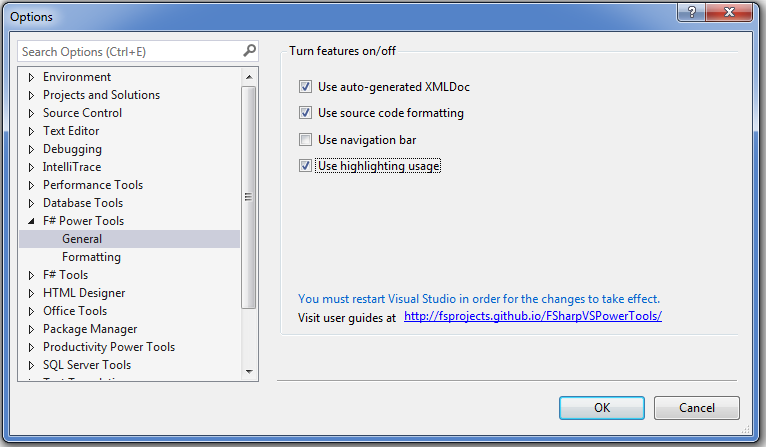
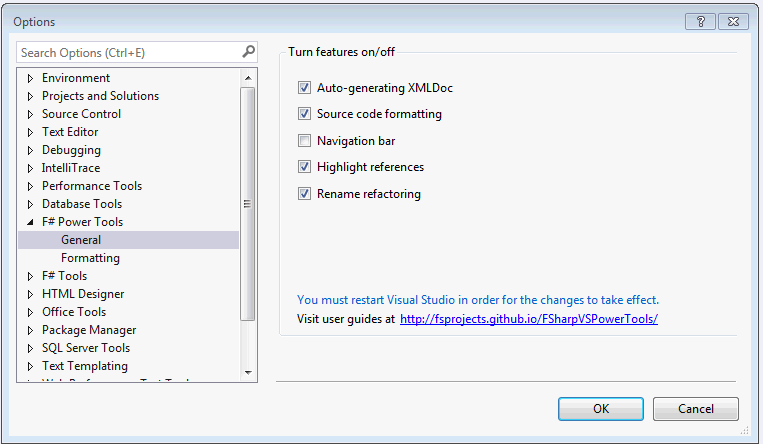
Update generated documentation for version 0.3.0

diff --git a/highlightusage.html b/highlightusage.html
@@ -5,7 +5,7 @@
     <title>highlightusage</title>
     <meta name="viewport" content="width=device-width, initial-scale=1.0">
     <meta name="description" content="F# Community Power Tools (for Visual Studio) ">
-    <meta name="author" content="Anh-Dung Phan, Don Syme">
+    <meta name="author" content="Anh-Dung Phan, Don Syme, Vasily Kirichenko">
 
     <script src="http://code.jquery.com/jquery-1.8.0.js"></script>
     <script src="http://code.jquery.com/ui/1.8.23/jquery-ui.js"></script>
@@ -32,12 +32,15 @@
       <div class="row">
         <div class="span9" id="main">
           
-<h2>Highlighting usage</h2>
+<h2>Highlight references</h2>
 
-<p>Color of the highlighting marker could be customized in  "Tools --> Options --> Environment --> Fonts and Colors --> Display items --> F# Highlight Usage".
-Here is a demo screencast.</p>
+<p>The color of the highlighted marker could be customized in  "Tools --> Options --> Environment --> Fonts and Colors --> Display items --> Highlighted References".
+Since v0.3.0 we also support operator highlighting.
+<img src="img/highlight_operators.png" alt="Highlight operators" /></p>
 
-<p><img src="img/highlight_usage.gif" alt="Highlighting usage" /></p>
+<p>Here is a demo screencast.</p>
+
+<p><img src="img/highlight_references.gif" alt="Highlight references" /></p>
 
 
         </div>
@@ -53,10 +56,11 @@ Here is a demo screencast.</p>
             <li><a href="http://github.com/fsprojects/FSharpVSPowerTools/blob/master/RELEASE_NOTES.md">Release Notes</a></li>
             
             <li class="nav-header">Supported Features</li>
-              <li><a href="./xmldoc.html">Auto-generating XMLDoc</a></li>
-            <li><a href="./codeformatting.html">Code formatting</a></li>
+            <li><a href="./xmldoc.html">Auto-generating XMLDoc</a></li>
+            <li><a href="./codeformatting.html">Source code formatting</a></li>
             <li><a href="./navbar.html">Navigation bar</a></li>
-              <li><a href="./highlightusage.html">Highlighting usage</a></li>
+            <li><a href="./highlightusage.html">Highlight references</a></li>
+            <li><a href="./rename.html">Rename refactoring</a></li>
             <!--
             <li class="nav-header">Documentation</li>
             <li><a href="./reference/index.html">API Reference</a></li>

diff --git a/index.html b/index.html
@@ -5,7 +5,7 @@
     <title>index</title>
     <meta name="viewport" content="width=device-width, initial-scale=1.0">
     <meta name="description" content="F# Community Power Tools (for Visual Studio) ">
-    <meta name="author" content="Anh-Dung Phan, Don Syme">
+    <meta name="author" content="Anh-Dung Phan, Don Syme, Vasily Kirichenko">
 
     <script src="http://code.jquery.com/jquery-1.8.0.js"></script>
     <script src="http://code.jquery.com/ui/1.8.23/jquery-ui.js"></script>
@@ -45,9 +45,10 @@ The extension is also available in the <a href="http://visualstudiogallery.msdn.
 
 <ul>
 <li><a href="xmldoc.html">Auto-generating XMLDoc</a></li>
-<li><a href="codeformatting.html">Code formatting</a></li>
+<li><a href="codeformatting.html">Source code formatting</a></li>
 <li><a href="navbar.html">Navigation bar</a></li>
-<li><a href="highlightusage.html">Highlighting usage</a></li>
+<li><a href="highlightusage.html">Highlight references</a></li>
+<li><a href="rename.html">Rename refactoring</a></li>
 </ul>
 
 <h2>Contributing and copyright</h2>
@@ -74,10 +75,11 @@ redistribution for both commercial and non-commercial purposes. For more informa
             <li><a href="http://github.com/fsprojects/FSharpVSPowerTools/blob/master/RELEASE_NOTES.md">Release Notes</a></li>
             
             <li class="nav-header">Supported Features</li>
-              <li><a href="./xmldoc.html">Auto-generating XMLDoc</a></li>
-            <li><a href="./codeformatting.html">Code formatting</a></li>
+            <li><a href="./xmldoc.html">Auto-generating XMLDoc</a></li>
+            <li><a href="./codeformatting.html">Source code formatting</a></li>
             <li><a href="./navbar.html">Navigation bar</a></li>
-              <li><a href="./highlightusage.html">Highlighting usage</a></li>
+            <li><a href="./highlightusage.html">Highlight references</a></li>
+            <li><a href="./rename.html">Rename refactoring</a></li>
             <!--
             <li class="nav-header">Documentation</li>
             <li><a href="./reference/index.html">API Reference</a></li>

diff --git a/codeformatting.html b/codeformatting.html
@@ -5,7 +5,7 @@
     <title>codeformatting</title>
     <meta name="viewport" content="width=device-width, initial-scale=1.0">
     <meta name="description" content="F# Community Power Tools (for Visual Studio) ">
-    <meta name="author" content="Anh-Dung Phan, Don Syme">
+    <meta name="author" content="Anh-Dung Phan, Don Syme, Vasily Kirichenko">
 
     <script src="http://code.jquery.com/jquery-1.8.0.js"></script>
     <script src="http://code.jquery.com/ui/1.8.23/jquery-ui.js"></script>
@@ -32,7 +32,7 @@
       <div class="row">
         <div class="span9" id="main">
           
-<h2>Code formatting</h2>
+<h2>Source code formatting</h2>
 
 <p>Two main formatting commands are available:</p>
 
@@ -110,10 +110,11 @@ could be adjusted under "Tools --> Options --> Text Editor --> F# --> Tabs" (loo
             <li><a href="http://github.com/fsprojects/FSharpVSPowerTools/blob/master/RELEASE_NOTES.md">Release Notes</a></li>
             
             <li class="nav-header">Supported Features</li>
-              <li><a href="./xmldoc.html">Auto-generating XMLDoc</a></li>
-            <li><a href="./codeformatting.html">Code formatting</a></li>
+            <li><a href="./xmldoc.html">Auto-generating XMLDoc</a></li>
+            <li><a href="./codeformatting.html">Source code formatting</a></li>
             <li><a href="./navbar.html">Navigation bar</a></li>
-              <li><a href="./highlightusage.html">Highlighting usage</a></li>
+            <li><a href="./highlightusage.html">Highlight references</a></li>
+            <li><a href="./rename.html">Rename refactoring</a></li>
             <!--
             <li class="nav-header">Documentation</li>
             <li><a href="./reference/index.html">API Reference</a></li>

diff --git a/xmldoc.html b/xmldoc.html
@@ -5,7 +5,7 @@
     <title>xmldoc</title>
     <meta name="viewport" content="width=device-width, initial-scale=1.0">
     <meta name="description" content="F# Community Power Tools (for Visual Studio) ">
-    <meta name="author" content="Anh-Dung Phan, Don Syme">
+    <meta name="author" content="Anh-Dung Phan, Don Syme, Vasily Kirichenko">
 
     <script src="http://code.jquery.com/jquery-1.8.0.js"></script>
     <script src="http://code.jquery.com/ui/1.8.23/jquery-ui.js"></script>
@@ -86,10 +86,11 @@ and you get a blank XMLDoc template (if there wasn't already a non-empty XMLDoc 
             <li><a href="http://github.com/fsprojects/FSharpVSPowerTools/blob/master/RELEASE_NOTES.md">Release Notes</a></li>
             
             <li class="nav-header">Supported Features</li>
-              <li><a href="./xmldoc.html">Auto-generating XMLDoc</a></li>
-            <li><a href="./codeformatting.html">Code formatting</a></li>
+            <li><a href="./xmldoc.html">Auto-generating XMLDoc</a></li>
+            <li><a href="./codeformatting.html">Source code formatting</a></li>
             <li><a href="./navbar.html">Navigation bar</a></li>
-              <li><a href="./highlightusage.html">Highlighting usage</a></li>
+            <li><a href="./highlightusage.html">Highlight references</a></li>
+            <li><a href="./rename.html">Rename refactoring</a></li>
             <!--
             <li class="nav-header">Documentation</li>
             <li><a href="./reference/index.html">API Reference</a></li>

diff --git a/rename.html b/rename.html
@@ -2,7 +2,7 @@
 <html lang="en">
   <head>
     <meta charset="utf-8">
-    <title>navbar</title>
+    <title>rename</title>
     <meta name="viewport" content="width=device-width, initial-scale=1.0">
     <meta name="description" content="F# Community Power Tools (for Visual Studio) ">
     <meta name="author" content="Anh-Dung Phan, Don Syme, Vasily Kirichenko">
@@ -32,18 +32,14 @@
       <div class="row">
         <div class="span9" id="main">
           
-<h2>Navigation bar</h2>
+<h2>Rename refactoring (experimental)</h2>
 
-<blockquote>
-  <p><strong>NOTE:</strong> The feature is distributed as an experimental part of F# Tools in Visual Studio. 
-The setting for this specific feature might be lost after updating/reinstalling Visual Studio.</p>
-</blockquote>
+<p>We currently support rename identifiers and operators which are defined in current project.
+Rename dialog can be activated via Edit --> Refactor --> Rename menu, context menu or Ctrl + R N key binding.</p>
 
 <p>Here is a demo screencast.</p>
 
-<p><img src="img/navbar.gif" alt="Navigation bar" /></p>
-
-<p>For more information about the feature, please read the following <a href="http://tomasp.net/blog/regions-navigation.aspx/">article</a>.</p>
+<p><img src="img/rename_refactoring.gif" alt="Rename refactoring" /></p>
 
 
         </div>
